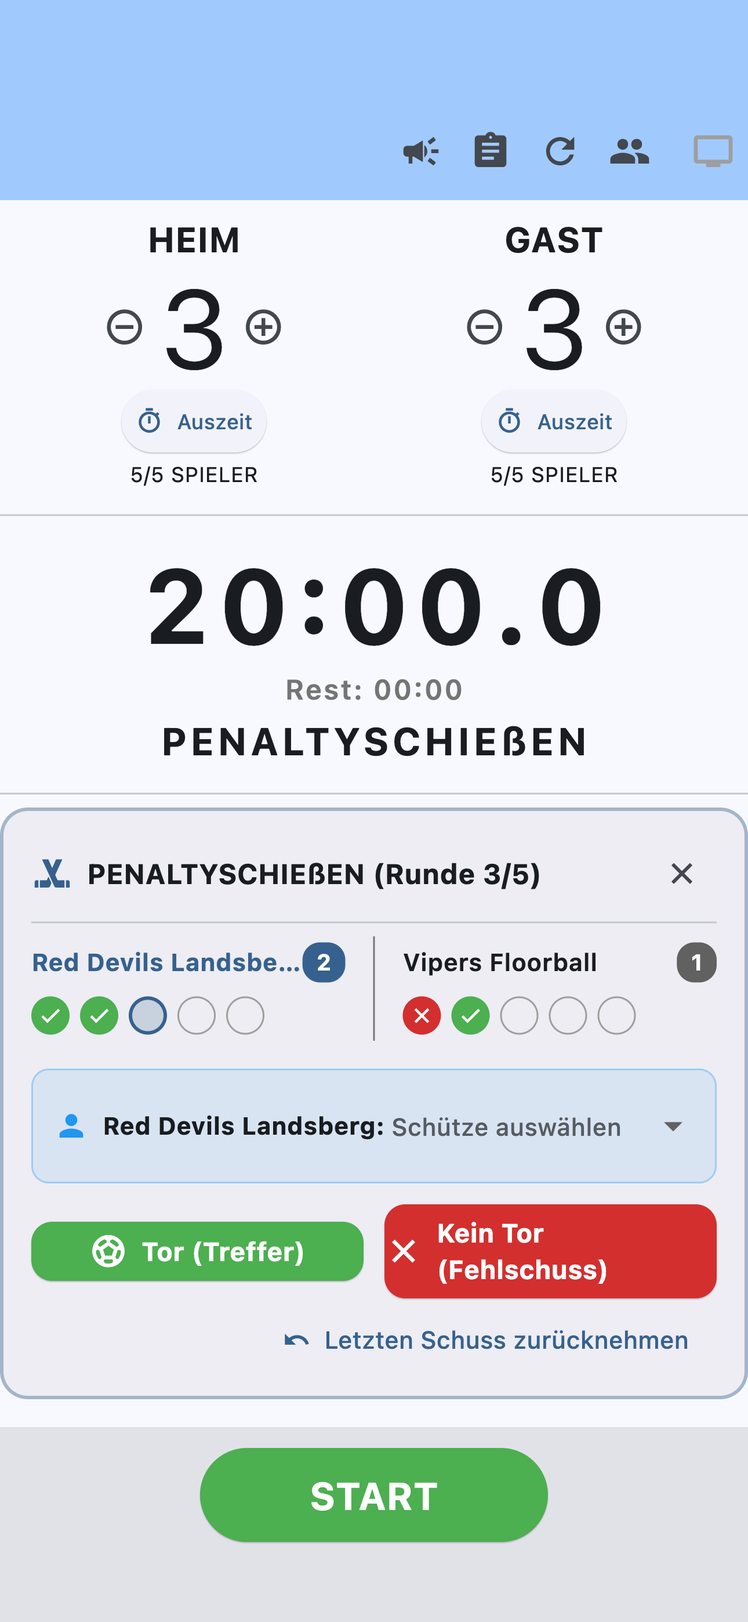
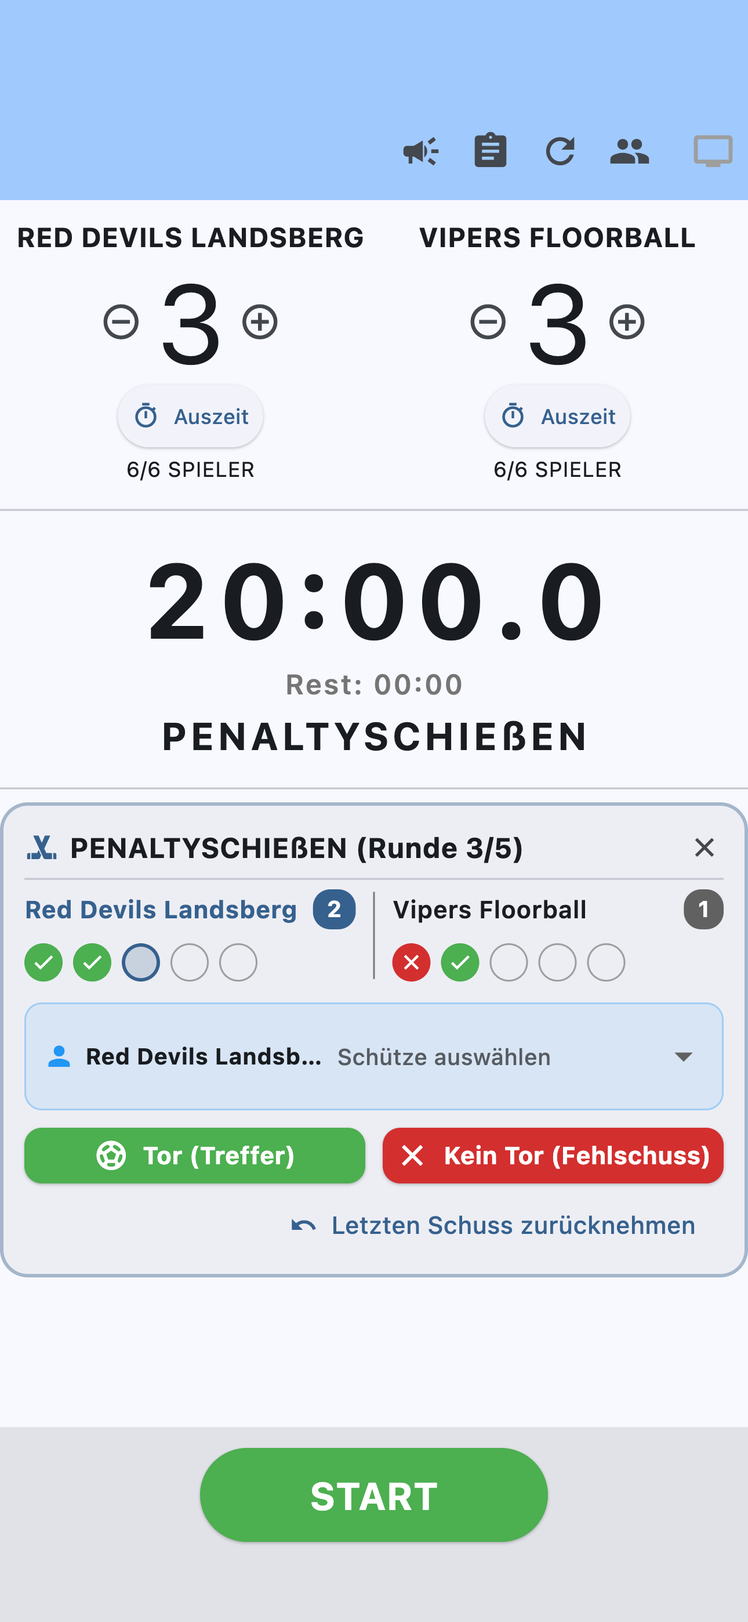
Floorball Clock: Screenshots und Texte auf Version 1.2 aktualisiert

diff --git a/floorball-clock.html b/floorball-clock.html
@@ -9,7 +9,7 @@
   <link rel="canonical" href="https://wodniok-service.de/floorball-clock.html">
   <meta property="og:title" content="Floorball Clock – Digitales Spielsekretariat & Hallenuhr (Regelwerk 2026)">
   <meta property="og:description" content="Professionelles digitales Spielsekretariat für Floorball & Unihockey nach dem Regelwerk 2026. Mit Zeitanpassung, 2' / 2'+2' / 10' Strafen-Logik, Penaltyschießen, Hallen-Scoreboard und offiziellem PDF-Spielbericht.">
-  <meta property="og:image" content="https://wodniok-service.de/images/floorball-clock-screenshot-main.png?v=9">
+  <meta property="og:image" content="https://wodniok-service.de/images/floorball-clock-screenshot-main.png?v=10">
   <meta property="og:url" content="https://wodniok-service.de/floorball-clock.html">
   <meta property="og:type" content="website">
   <title>Floorball Clock – Digitales Spielsekretariat & Hallenuhr (Regelwerk 2026) | Alex Wodniok</title>
@@ -96,7 +96,7 @@
       <!-- App Screenshot Hero (iPhone) -->
       <div class="hero-visual">
         <div class="app-visual-wrapper">
-          <img src="images/floorball-clock-screenshot-main.png?v=9" alt="Floorball Clock iPhone Screenshot Hauptsteuerung mit Zeitanpassung" class="app-screenshot-hero" style="border-color: rgba(99, 102, 241, 0.4); box-shadow: var(--shadow-glow); max-width: 290px;">
+          <img src="images/floorball-clock-screenshot-main.png?v=10" alt="Floorball Clock iPhone Screenshot Hauptsteuerung mit Zeitanpassung" class="app-screenshot-hero" style="border-color: rgba(99, 102, 241, 0.4); box-shadow: var(--shadow-glow); max-width: 290px;">
         </div>
       </div>
     </div>
@@ -220,37 +220,37 @@
         <div class="screenshots-gallery-grid">
           <div class="screenshot-gallery-item">
             <div class="screenshot-img-box">
-              <img src="images/screenshots/ios/01_control_panel.png?v=9" alt="Floorball Clock iPhone Hauptsteuerung & Spielsekretariat">
+              <img src="images/screenshots/ios/01_control_panel.png?v=10" alt="Floorball Clock iPhone Hauptsteuerung & Spielsekretariat">
             </div>
             <div class="screenshot-caption">⏱ Spielsekretariat & Feineinstellung (-5s..+5s)</div>
           </div>
           <div class="screenshot-gallery-item">
             <div class="screenshot-img-box">
-              <img src="images/screenshots/ios/02_penalty_shootout.png?v=9" alt="Floorball Clock iPhone Penaltyschießen Shootout">
+              <img src="images/screenshots/ios/02_penalty_shootout.png?v=10" alt="Floorball Clock iPhone Penaltyschießen Shootout">
             </div>
             <div class="screenshot-caption">🥅 Penaltyschießen (5 Schützen & Sudden Death)</div>
           </div>
           <div class="screenshot-gallery-item">
             <div class="screenshot-img-box">
-              <img src="images/screenshots/ios/03_penalty_dialog.png?v=9" alt="Floorball Clock iPhone Strafen-Dialog & Korrektur">
+              <img src="images/screenshots/ios/03_penalty_dialog.png?v=10" alt="Floorball Clock iPhone Strafen-Dialog & Korrektur">
             </div>
             <div class="screenshot-caption">⚖ 2' / 2'+2' / 10' / MS Strafen & Korrektur</div>
           </div>
           <div class="screenshot-gallery-item">
             <div class="screenshot-img-box">
-              <img src="images/screenshots/ios/04_roster_setup.png?v=9" alt="Floorball Clock iPhone Kader- & Team-Setup">
+              <img src="images/screenshots/ios/04_roster_setup.png?v=10" alt="Floorball Clock iPhone Kader- & Team-Setup">
             </div>
             <div class="screenshot-caption">⚙ Großfeld / Kleinfeld & Team-Vorlagen</div>
           </div>
           <div class="screenshot-gallery-item">
             <div class="screenshot-img-box">
-              <img src="images/screenshots/ios/05_match_report.png?v=9" alt="Floorball Clock iPhone Digitaler Spielbericht">
+              <img src="images/screenshots/ios/05_match_report.png?v=10" alt="Floorball Clock iPhone Digitaler Spielbericht">
             </div>
             <div class="screenshot-caption">📄 Interaktiver Spielbericht & PDF-Vorschau</div>
           </div>
           <div class="screenshot-gallery-item">
             <div class="screenshot-img-box">
-              <img src="images/screenshots/ios/06_scoreboard.png?v=9" alt="Floorball Clock iPhone Hallenanzeige Scoreboard">
+              <img src="images/screenshots/ios/06_scoreboard.png?v=10" alt="Floorball Clock iPhone Hallenanzeige Scoreboard">
             </div>
             <div class="screenshot-caption">🖥 Hallen-Scoreboard (Aufsteigend gem. Regel 201.1)</div>
           </div>
@@ -262,37 +262,37 @@
         <div class="screenshots-gallery-grid">
           <div class="screenshot-gallery-item">
             <div class="screenshot-img-box">
-              <img src="images/screenshots/ipad/01_control_panel.png?v=9" alt="Floorball Clock iPad Hauptsteuerung am Kampfgericht">
+              <img src="images/screenshots/ipad/01_control_panel.png?v=10" alt="Floorball Clock iPad Hauptsteuerung am Kampfgericht">
             </div>
             <div class="screenshot-caption">⏱ Großes iPad-Bedienfeld am Kampfgericht</div>
           </div>
           <div class="screenshot-gallery-item">
             <div class="screenshot-img-box">
-              <img src="images/screenshots/ipad/02_penalty_shootout.png?v=9" alt="Floorball Clock iPad Penaltyschießen">
+              <img src="images/screenshots/ipad/02_penalty_shootout.png?v=10" alt="Floorball Clock iPad Penaltyschießen">
             </div>
             <div class="screenshot-caption">🥅 Penaltyschießen & Shootout-Steuerung</div>
           </div>
           <div class="screenshot-gallery-item">
             <div class="screenshot-img-box">
-              <img src="images/screenshots/ipad/03_penalty_dialog.png?v=9" alt="Floorball Clock iPad Strafen-Eingabe">
+              <img src="images/screenshots/ipad/03_penalty_dialog.png?v=10" alt="Floorball Clock iPad Strafen-Eingabe">
             </div>
             <div class="screenshot-caption">⚖ 2' / 2'+2' / 10' / MS Strafen & Korrektur</div>
           </div>
           <div class="screenshot-gallery-item">
             <div class="screenshot-img-box">
-              <img src="images/screenshots/ipad/04_roster_setup.png?v=9" alt="Floorball Clock iPad Kader & Betreuer">
+              <img src="images/screenshots/ipad/04_roster_setup.png?v=10" alt="Floorball Clock iPad Kader & Betreuer">
             </div>
             <div class="screenshot-caption">⚙ Team-Kader, Betreuer (Staff) & Logos</div>
           </div>
           <div class="screenshot-gallery-item">
             <div class="screenshot-img-box">
-              <img src="images/screenshots/ipad/05_match_report.png?v=9" alt="Floorball Clock iPad Offizieller Spielberichtsbogen">
+              <img src="images/screenshots/ipad/05_match_report.png?v=10" alt="Floorball Clock iPad Offizieller Spielberichtsbogen">
             </div>
             <div class="screenshot-caption">📄 Floorball Deutschland PDF-Spielbericht</div>
           </div>
           <div class="screenshot-gallery-item">
             <div class="screenshot-img-box">
-              <img src="images/screenshots/ipad/06_scoreboard.png?v=9" alt="Floorball Clock iPad Scoreboard Hallenausgabe">
+              <img src="images/screenshots/ipad/06_scoreboard.png?v=10" alt="Floorball Clock iPad Scoreboard Hallenausgabe">
             </div>
             <div class="screenshot-caption">🖥 Scoreboard-Beamer-Ausgabe (Regel 201.1)</div>
           </div>
@@ -304,37 +304,37 @@
         <div class="screenshots-gallery-grid">
           <div class="screenshot-gallery-item">
             <div class="screenshot-img-box">
-              <img src="images/screenshots/mac/01_control_panel.png?v=9" alt="Floorball Clock Mac Desktop Hauptsteuerung">
+              <img src="images/screenshots/mac/01_control_panel.png?v=10" alt="Floorball Clock Mac Desktop Hauptsteuerung">
             </div>
             <div class="screenshot-caption">⏱ Desktop-Steuerung für Schreibertisch-Mac</div>
           </div>
           <div class="screenshot-gallery-item">
             <div class="screenshot-img-box">
-              <img src="images/screenshots/mac/02_penalty_shootout.png?v=9" alt="Floorball Clock Mac Penaltyschießen">
+              <img src="images/screenshots/mac/02_penalty_shootout.png?v=10" alt="Floorball Clock Mac Penaltyschießen">
             </div>
             <div class="screenshot-caption">🥅 Penaltyschießen & Sudden Death</div>
           </div>
           <div class="screenshot-gallery-item">
             <div class="screenshot-img-box">
-              <img src="images/screenshots/mac/03_penalty_dialog.png?v=9" alt="Floorball Clock Mac Strafen">
+              <img src="images/screenshots/mac/03_penalty_dialog.png?v=10" alt="Floorball Clock Mac Strafen">
             </div>
             <div class="screenshot-caption">⚖ 2' / 2'+2' / 10' / MS Strafen-Engine</div>
           </div>
           <div class="screenshot-gallery-item">
             <div class="screenshot-img-box">
-              <img src="images/screenshots/mac/04_roster_setup.png?v=9" alt="Floorball Clock Mac Setup">
+              <img src="images/screenshots/mac/04_roster_setup.png?v=10" alt="Floorball Clock Mac Setup">
             </div>
             <div class="screenshot-caption">⚙ Kaderverwaltung & Vereinsvorlagen</div>
           </div>
           <div class="screenshot-gallery-item">
             <div class="screenshot-img-box">
-              <img src="images/screenshots/mac/05_match_report.png?v=9" alt="Floorball Clock Mac PDF Spielbericht">
+              <img src="images/screenshots/mac/05_match_report.png?v=10" alt="Floorball Clock Mac PDF Spielbericht">
             </div>
             <div class="screenshot-caption">📄 Interaktiver Spielbericht & PDF-Druck</div>
           </div>
           <div class="screenshot-gallery-item">
             <div class="screenshot-img-box">
-              <img src="images/screenshots/mac/06_scoreboard.png?v=9" alt="Floorball Clock Mac Multi-Display Scoreboard">
+              <img src="images/screenshots/mac/06_scoreboard.png?v=10" alt="Floorball Clock Mac Multi-Display Scoreboard">
             </div>
             <div class="screenshot-caption">🖥 Separates 2. Monitor- / Beamer-Fenster</div>
           </div>
@@ -346,37 +346,37 @@
         <div class="screenshots-gallery-grid">
           <div class="screenshot-gallery-item">
             <div class="screenshot-img-box">
-              <img src="images/screenshots/android_phone/01_control_panel.png?v=9" alt="Floorball Clock Android Smartphone Hauptansicht">
+              <img src="images/screenshots/android_phone/01_control_panel.png?v=10" alt="Floorball Clock Android Smartphone Hauptansicht">
             </div>
             <div class="screenshot-caption">⏱ Android Smartphone Steuerung & Zeitanpassung</div>
           </div>
           <div class="screenshot-gallery-item">
             <div class="screenshot-img-box">
-              <img src="images/screenshots/android_phone/02_penalty_shootout.png?v=9" alt="Floorball Clock Android Penaltyschießen">
+              <img src="images/screenshots/android_phone/02_penalty_shootout.png?v=10" alt="Floorball Clock Android Penaltyschießen">
             </div>
             <div class="screenshot-caption">🥅 Penaltyschießen (Shootout-Erfassung)</div>
           </div>
           <div class="screenshot-gallery-item">
             <div class="screenshot-img-box">
-              <img src="images/screenshots/android_phone/03_penalty_dialog.png?v=9" alt="Floorball Clock Android Strafen">
+              <img src="images/screenshots/android_phone/03_penalty_dialog.png?v=10" alt="Floorball Clock Android Strafen">
             </div>
             <div class="screenshot-caption">⚖ 2' / 2'+2' / 10' / MS Strafen & Korrektur</div>
           </div>
           <div class="screenshot-gallery-item">
             <div class="screenshot-img-box">
-              <img src="images/screenshots/android_phone/04_roster_setup.png?v=9" alt="Floorball Clock Android Roster">
+              <img src="images/screenshots/android_phone/04_roster_setup.png?v=10" alt="Floorball Clock Android Roster">
             </div>
             <div class="screenshot-caption">⚙ Spielformate, Kader & Team-Vorlagen</div>
           </div>
           <div class="screenshot-gallery-item">
             <div class="screenshot-img-box">
-              <img src="images/screenshots/android_phone/05_match_report.png?v=9" alt="Floorball Clock Android Spielbericht">
+              <img src="images/screenshots/android_phone/05_match_report.png?v=10" alt="Floorball Clock Android Spielbericht">
             </div>
             <div class="screenshot-caption">📄 Digitaler Spielberichtsbogen (PDF)</div>
           </div>
           <div class="screenshot-gallery-item">
             <div class="screenshot-img-box">
-              <img src="images/screenshots/android_phone/06_scoreboard.png?v=9" alt="Floorball Clock Android Cast Scoreboard">
+              <img src="images/screenshots/android_phone/06_scoreboard.png?v=10" alt="Floorball Clock Android Cast Scoreboard">
             </div>
             <div class="screenshot-caption">🖥 Hallen-Scoreboard (Aufsteigend gem. Regel 201.1)</div>
           </div>
@@ -388,37 +388,37 @@
         <div class="screenshots-gallery-grid">
           <div class="screenshot-gallery-item">
             <div class="screenshot-img-box">
-              <img src="images/screenshots/android_tablet/01_control_panel.png?v=9" alt="Floorball Clock Android Tablet Hauptsteuerung">
+              <img src="images/screenshots/android_tablet/01_control_panel.png?v=10" alt="Floorball Clock Android Tablet Hauptsteuerung">
             </div>
             <div class="screenshot-caption">⏱ Android Tablet Schreibertisch-Ansicht</div>
           </div>
           <div class="screenshot-gallery-item">
             <div class="screenshot-img-box">
-              <img src="images/screenshots/android_tablet/02_penalty_shootout.png?v=9" alt="Floorball Clock Android Tablet Penaltyschießen">
+              <img src="images/screenshots/android_tablet/02_penalty_shootout.png?v=10" alt="Floorball Clock Android Tablet Penaltyschießen">
             </div>
             <div class="screenshot-caption">🥅 Penaltyschießen & Shootout-Engine</div>
           </div>
           <div class="screenshot-gallery-item">
             <div class="screenshot-img-box">
-              <img src="images/screenshots/android_tablet/03_penalty_dialog.png?v=9" alt="Floorball Clock Android Tablet Strafen">
+              <img src="images/screenshots/android_tablet/03_penalty_dialog.png?v=10" alt="Floorball Clock Android Tablet Strafen">
             </div>
             <div class="screenshot-caption">⚖ 2' / 2'+2' / 10' / MS Strafen & Korrektur</div>
           </div>
           <div class="screenshot-gallery-item">
             <div class="screenshot-img-box">
-              <img src="images/screenshots/android_tablet/04_roster_setup.png?v=9" alt="Floorball Clock Android Tablet Setup">
+              <img src="images/screenshots/android_tablet/04_roster_setup.png?v=10" alt="Floorball Clock Android Tablet Setup">
             </div>
             <div class="screenshot-caption">⚙ Kader, Betreuer-Erfassung & Logos</div>
           </div>
           <div class="screenshot-gallery-item">
             <div class="screenshot-img-box">
-              <img src="images/screenshots/android_tablet/05_match_report.png?v=9" alt="Floorball Clock Android Tablet Spielbericht">
+              <img src="images/screenshots/android_tablet/05_match_report.png?v=10" alt="Floorball Clock Android Tablet Spielbericht">
             </div>
             <div class="screenshot-caption">📄 Interaktiver Spielbericht & PDF-Vorschau</div>
           </div>
           <div class="screenshot-gallery-item">
             <div class="screenshot-img-box">
-              <img src="images/screenshots/android_tablet/06_scoreboard.png?v=9" alt="Floorball Clock Android Tablet Scoreboard">
+              <img src="images/screenshots/android_tablet/06_scoreboard.png?v=10" alt="Floorball Clock Android Tablet Scoreboard">
             </div>
             <div class="screenshot-caption">🖥 Hallen-Scoreboard (Aufsteigend gem. Regel 201.1)</div>
           </div>
@@ -441,6 +441,28 @@
         </div>
       </div>
 
+    </div>
+  </section>
+
+  <!-- Neu in Version 1.2 -->
+  <section class="section" style="padding-top: 3rem; padding-bottom: 3rem;">
+    <div class="container" style="max-width: 900px;">
+      <div class="section-header" style="margin-bottom: 1.75rem; text-align: center;">
+        <div class="badge badge-orange">Neu in Version 1.2</div>
+        <h2>Gegen das aktuelle Regelwerk geprüft</h2>
+        <p>Alle Regeln wurden mit den Floorball-Spielregeln 2026 (SPRGK) und der Spielordnung abgeglichen und mit 61 echten Spielberichten aus dem Saisonmanager (1. FBL Herren und Regionalliga U15 Kleinfeld) nachgespielt.</p>
+      </div>
+      <div class="callout callout-info" style="margin: 0; padding: 1.1rem 1.35rem; font-size: 0.95rem; line-height: 1.7;">
+        <ul style="margin: 0; padding-left: 1.2rem;">
+          <li><strong>Technisches Tor</strong> und <strong>Strafschusstreffer</strong> als eigene Tor-Arten – sie beenden keine Strafe.</li>
+          <li>Option <strong>„Tor während angezeigter aufgeschobener Strafe“</strong>: Die angezeigte Strafe wird trotzdem verhängt, eine laufende Strafe endet nicht.</li>
+          <li>Wird ein Tor gelöscht, lebt eine dadurch beendete Strafe mit der korrekten Restzeit wieder auf.</li>
+          <li>Kleinfeld und Mixed: höchstens 1 Bankstrafe gleichzeitig, 3 Penaltyschützen, Pause und Verlängerung je 5 Minuten.</li>
+          <li>Pausen- und Verlängerungsdauer einstellbar; Kaderlimit 20 (Großfeld) bzw. 14 Spieler (Kleinfeld).</li>
+          <li>Spielerzählung inklusive Torhüter (<code>6/6</code> bzw. <code>4/4</code>).</li>
+          <li>PDF-Spielbericht: Umlaute und Sonderzeichen, Verlängerung vor dem Penaltyschießen und Betreuer-Angaben korrigiert.</li>
+        </ul>
+      </div>
     </div>
   </section>
 
@@ -467,7 +489,7 @@
             <svg viewBox="0 0 24 24" fill="none" stroke="currentColor" stroke-width="2"><circle cx="12" cy="12" r="10"></circle><circle cx="12" cy="12" r="4"></circle><line x1="4.93" y1="4.93" x2="9.17" y2="9.17"></line><line x1="14.83" y1="14.83" x2="19.07" y2="19.07"></line><line x1="14.83" y1="9.17" x2="19.07" y2="4.93"></line><line x1="4.93" y1="19.07" x2="9.17" y2="14.83"></line></svg>
           </div>
           <h3>Penaltyschießen & Shootout</h3>
-          <p>Offizieller Turniermodus: Schnellauswahl aus 5 Schützen pro Team, automatische Treffervalidierung, Sudden-Death-Runden bei Gleichstand und direkte Übertragung auf das Hallen-Scoreboard.</p>
+          <p>Offizieller Modus nach SPRGK 2026: 5 Schützen pro Team auf Großfeld, 3 auf Kleinfeld und Mixed, Treffer- und Fehlschuss-Erfassung, automatische vorzeitige Entscheidung, Sudden-Death-Runden bei Gleichstand und direkte Übertragung auf das Hallen-Scoreboard. Der Sieger erhält das zusätzliche Tor im Spielbericht.</p>
         </div>
 
         <div class="feature-card coral">
@@ -475,15 +497,15 @@
             <svg viewBox="0 0 24 24" fill="none" stroke="currentColor" stroke-width="2"><rect x="3" y="3" width="18" height="18" rx="2" ry="2"></rect><line x1="9" y1="9" x2="15" y2="15"></line><line x1="15" y1="9" x2="9" y2="15"></line></svg>
           </div>
           <h3>2' / 2'+2' / 10' Strafen & Live-Edit</h3>
-          <p>Regelkonforme Abarbeitung nach SPRGK 2026: Bankstrafen vor persönlichen Strafen, max. 2 Bankstrafen gleichzeitig (FIFO). Laufende Strafen können per Klick direkt im Spielbetrieb korrigiert werden.</p>
+          <p>Regelkonforme Abarbeitung nach SPRGK 2026: Bankstrafen vor persönlichen Strafen, gleichzeitig laufen höchstens 2 Bankstrafen auf Großfeld und 1 auf Kleinfeld/Mixed. Ein Gegentor in Unterzahl beendet die Strafe mit der kürzesten Restzeit (603.6), Strafschuss- und technische Tore nicht. Wird ein Tor gelöscht, lebt die dadurch beendete Strafe wieder auf. Laufende Strafen lassen sich per Klick im Spielbetrieb korrigieren.</p>
         </div>
 
         <div class="feature-card">
           <div class="feature-icon">
             <svg viewBox="0 0 24 24" fill="none" stroke="currentColor" stroke-width="2"><path d="M4 15s1-1 4-1 5 2 8 2 4-1 4-1V3s-1 1-4 1-5-2-8-2-4 1-4 1z"></path><line x1="4" y1="22" x2="4" y2="15"></line></svg>
           </div>
-          <h3>Großfeld (5v5) & Kleinfeld (3v3)</h3>
-          <p>Flexible Spielformate mit 3 Dritteln, 2 Hälften oder 1 durchgehenden Spielzeit. Automatische Spielerzählung (<code>5/5</code>, <code>4/5</code>, <code>3/5</code> auf Großfeld; <code>3/3</code>, <code>2/3</code> auf Kleinfeld) sowie zuschaltbare Overtime.</p>
+          <h3>Großfeld (5v5), Kleinfeld (3v3) & Mixed</h3>
+          <p>Flexible Spielformate mit 3 Dritteln, 2 Hälften oder 1 durchgehenden Spielzeit. Automatische Spielerzählung inklusive Torhüter (<code>6/6</code>, <code>5/6</code>, <code>4/6</code> auf Großfeld; <code>4/4</code>, <code>3/4</code> auf Kleinfeld). Pausen und Verlängerung (Golden Goal) mit den Regelwerten je Feldart (Großfeld 10/10 min, Kleinfeld 5/5 min), bei Bedarf frei einstellbar – z. B. für Turniere.</p>
         </div>
 
         <div class="feature-card orange">
@@ -499,7 +521,7 @@
             <svg viewBox="0 0 24 24" fill="none" stroke="currentColor" stroke-width="2"><path d="M14 2H6a2 2 0 0 0-2 2v16a2 2 0 0 0 2 2h12a2 2 0 0 0 2-2V8z"></path><polyline points="14 2 14 8 20 8"></polyline><line x1="16" y1="13" x2="8" y2="13"></line><line x1="16" y1="17" x2="8" y2="17"></line><polyline points="10 9 9 9 8 9"></polyline></svg>
           </div>
           <h3>Offizieller PDF-Spielbericht & Vorschau</h3>
-          <p>Lückenlose Erfassung aller Tore, Vorlagen, Strafen, Penaltyschützen, Auszeiten und bis zu 5 Betreuern (Staff) pro Team. Interaktiver PDF-Vorschaubildschirm, digitale Unterschriften und Druck-Export.</p>
+          <p>Lückenlose Erfassung aller Tore (inkl. Eigentor, Strafschuss und technischem Tor), Vorlagen, Strafen, Penaltyschießen, Auszeiten und bis zu 5 Betreuern (Staff) pro Team. Kaderlimit nach Spielordnung (20 Spieler Großfeld, 14 Kleinfeld). Interaktiver PDF-Vorschaubildschirm, digitale Unterschriften und Druck-Export.</p>
         </div>
       </div>
     </div>

diff --git a/handbuch.html b/handbuch.html
@@ -175,8 +175,8 @@
               Floorball Clock steuert Pausen automatisch im Spielzyklus (<em>Game Loop</em>):
             </p>
             <ul style="padding-left: 1.5rem; line-height: 1.8; margin-bottom: 1.5rem;">
-              <li><strong>Reguläre Drittel-/Halbzeitpausen:</strong> Nach Ablauf eines Abschnitts startet automatisch der Pausentimer (Standard: <code>10:00</code> Minuten). Auf dem Scoreboard wird <em>PAUSE / INTERMISSION</em> mit Countdown visualisiert.</li>
-              <li><strong>Pause vor der Overtime:</strong> Endet die reguläre Spielzeit unentschieden (und ist die Overtime aktiviert), folgt eine 2-minütige Vorbereitungspause vor Beginn der Verlängerung.</li>
+              <li><strong>Reguläre Drittel-/Halbzeitpausen:</strong> Nach Ablauf eines Abschnitts startet automatisch der Pausentimer (Regelwert: <code>10:00</code> Minuten auf Großfeld, <code>5:00</code> Minuten auf Kleinfeld/Mixed; im Spiel-Setup unter <em>Pausen-Dauer</em> anpassbar, z. B. für Turniere). Auf dem Scoreboard wird <em>PAUSE / INTERMISSION</em> mit Countdown visualisiert.</li>
+              <li><strong>Pause vor der Overtime:</strong> Endet die reguläre Spielzeit unentschieden (und ist die Overtime aktiviert), folgt eine 2-minütige Vorbereitungspause vor Beginn der Verlängerung. Die Verlängerung (Golden Goal) dauert nach Regelwert 10 Minuten auf Großfeld und 5 Minuten auf Kleinfeld/Mixed und ist unter <em>Dauer der Verlängerung</em> einstellbar.</li>
               <li><strong>Reguläres Spielende:</strong> Gibt es einen regulären Sieger, wird keine Verlängerung gestartet – das Spiel wechselt direkt in den Status <em>SPIEL ENDE / GAME FINISHED</em>.</li>
             </ul>
           </div>
@@ -195,6 +195,7 @@
               <div class="step-details">
                 <h4>Toreingabe mit Spielzeit-Auswahl, Torschütze & Assist</h4>
                 <p>Ein Klick auf das <strong>+ Symbol</strong> öffnet den Tordialog. Hier können Sie die exakte <strong>Spielzeit</strong> des Tores einstellen sowie den <strong>Torschützen</strong> und <strong>Vorlagengeber (Assist)</strong> anhand der Spielernummern aus dem Roster auswählen.</p>
+                <p>Über die Tor-Art wählen Sie <strong>Tor</strong>, <strong>Eigentor (ET)</strong>, <strong>Strafschusstreffer</strong> oder <strong>Technisches Tor (TT)</strong>. Strafschusstreffer und technische Tore beenden keine laufende Strafe. Fällt ein Tor, während eine aufgeschobene Strafe angezeigt wird, aktivieren Sie <em>„Tor während angezeigter aufgeschobener Strafe“</em>: Die angezeigte Strafe wird trotzdem verhängt, laufende Strafen des Gegners erlöschen nicht (Regel 603.6).</p>
               </div>
             </div>
 
@@ -202,13 +203,13 @@
               <div class="step-number" style="font-size: 1.4rem; font-weight: 900;">−</div>
               <div class="step-details">
                 <h4>Tor-Korrektur mit Bestätigungsdialog</h4>
-                <p>Wird ein Tor vom Schiedsrichtergespann aberkannt, reduziert das <strong>- Symbol</strong> den Spielstand mit einer klaren Bestätigung (<em>„Tor löschen“</em>) und entfernt das letzte Tor sauber aus dem Spielbericht. Tore können zudem jederzeit im Spielberichtsbogen editiert oder gelöscht werden.</p>
+                <p>Wird ein Tor vom Schiedsrichtergespann aberkannt, reduziert das <strong>- Symbol</strong> den Spielstand mit einer klaren Bestätigung (<em>„Tor löschen“</em>) und entfernt das letzte Tor sauber aus dem Spielbericht. Tore können zudem jederzeit im Spielberichtsbogen editiert oder gelöscht werden. Hat das gelöschte Tor eine Strafe beendet, lebt diese mit der korrekten Restzeit wieder auf.</p>
               </div>
             </div>
 
             <div class="callout callout-tip">
               <h5>👥 Dynamische Feldspieler-Anzeige</h5>
-              <p>Unterhalb des Spielstands wird in Echtzeit angezeigt, wie viele Feldspieler das jeweilige Team aktuell auf dem Feld hat (z. B. <code>5/5 SPIELER</code> auf Großfeld oder <code>3/3 SPIELER</code> auf Kleinfeld abzüglich aktiver Bankstrafen).</p>
+              <p>Unterhalb des Spielstands wird in Echtzeit angezeigt, wie viele Spieler inklusive Torhüter das jeweilige Team aktuell auf dem Feld hat (z. B. <code>6/6 SPIELER</code> bzw. <code>5/6 SPIELER</code> auf Großfeld oder <code>4/4 SPIELER</code> auf Kleinfeld, abzüglich aktiver Bankstrafen; zeitgleiche Strafen beider Teams nach Regel 603.9 werden nicht abgezogen).</p>
             </div>
           </div>
         </article>
@@ -224,8 +225,8 @@
             <div class="step-block">
               <div class="step-number">🥅</div>
               <div class="step-details">
-                <h4>5 reguläre Schützen pro Team</h4>
-                <p>Jedes Team nominiert 5 Schützen aus dem aktuellen Spielkader. Die App führt das Schiedsgericht abwechselnd durch die Versuche von Heim- und Gastteam.</p>
+                <h4>5 (Großfeld) bzw. 3 (Kleinfeld/Mixed) reguläre Schützen pro Team</h4>
+                <p>Jedes Team nominiert 5 Schützen auf Großfeld bzw. 3 Schützen auf Kleinfeld und Mixed aus dem aktuellen Spielkader. Die App führt das Schiedsgericht abwechselnd durch die Versuche von Heim- und Gastteam.</p>
               </div>
             </div>
 
@@ -300,7 +301,15 @@
               <div class="step-number text-badge">MS</div>
               <div class="step-details">
                 <h4>Matchstrafe (Match Penalty)</h4>
-                <p>Führt zu einer 2'+2' Großen Bankstrafe für das Team sowie zum sofortigen Ausschluss des Spielers (Eintragung im offiziellen Spielbericht).</p>
+                <p>Führt zu einer 2'+2' Großen Bankstrafe für das Team sowie zum sofortigen Ausschluss des Spielers (Eintragung im offiziellen Spielbericht). Die Bankstrafe wird zusätzlich erfasst; eine laufende 10'-Strafe desselben Spielers endet.</p>
+              </div>
+            </div>
+
+            <div class="step-block">
+              <div class="step-number text-badge">TMS</div>
+              <div class="step-details">
+                <h4>Technische Matchstrafe (Regel 612)</h4>
+                <p>Ausschluss ohne Sperre, z. B. bei nicht spielberechtigten Spielern oder Betreuern. Wird wie die Matchstrafe im Spielbericht eingetragen; eine laufende 10'-Strafe derselben Person endet.</p>
               </div>
             </div>
 
@@ -344,8 +353,12 @@
                   <td style="padding: 0.75rem;">Maximal 2 Bankstrafen (Großfeld) bzw. 1 Bankstrafe (Kleinfeld) können pro Team gleichzeitig ticken. Weitere Strafen werden verzögert in die Warteschlange gestellt und rücken automatisch nach.</td>
                 </tr>
                 <tr style="border-bottom: 1px solid var(--border-subtle);">
-                  <td style="padding: 0.75rem;"><strong>Konfliktlösung (Regel 603.2)</strong></td>
-                  <td style="padding: 0.75rem;">Enden zwei Strafen exakt zeitgleich, unterstützt die App das Schiedsgericht durch einen geführten Entscheidungsdialog, welcher Spieler das Feld zuerst betritt.</td>
+                  <td style="padding: 0.75rem;"><strong>Gegentor in Unterzahl (Regel 603.6)</strong></td>
+                  <td style="padding: 0.75rem;">Erzielt das Team in Überzahl ein Tor, bietet die App an, die Bankstrafe des Gegners mit der kürzesten Restzeit zu beenden. Bei einer 2'+2' endet nur der laufende Teil. Strafschusstreffer, technische Tore und Tore während einer angezeigten aufgeschobenen Strafe beenden keine Strafe.</td>
+                </tr>
+                <tr style="border-bottom: 1px solid var(--border-subtle);">
+                  <td style="padding: 0.75rem;"><strong>Zeitgleiche Strafen (Regel 603.9)</strong></td>
+                  <td style="padding: 0.75rem;">Bankstrafen beider Teams aus derselben Unterbrechung werden automatisch paarweise verrechnet: Sie verändern die Spielerzahl nicht und werden nicht durch Tore beendet.</td>
                 </tr>
                 <tr>
                   <td style="padding: 0.75rem;"><strong>✏ Live-Korrektur</strong></td>
@@ -482,10 +495,10 @@
           <h2>13. Häufige Fragen & Praxistipps</h2>
           <div class="manual-card">
             <h4>Wie verhält sich die App beim Penaltyschießen?</h4>
-            <p>Die App führt das Schiedsgericht durch die 5 regulären Schützen pro Team. Fällt keine Entscheidung, startet automatisch das Sudden-Death-Verfahren. Alle Treffer werden synchron auf der Hallenanzeige und im Spielbericht eingetragen.</p>
+            <p>Die App führt das Schiedsgericht durch die regulären Schützen pro Team (5 auf Großfeld, 3 auf Kleinfeld/Mixed). Fällt keine Entscheidung, startet automatisch das Sudden-Death-Verfahren. Alle Treffer werden synchron auf der Hallenanzeige und im Spielbericht eingetragen.</p>
 
-            <h4 style="margin-top: 1.5rem;">Wie verhält sich die App, wenn zwei Strafen exakt zeitgleich enden?</h4>
-            <p>Gemäß IFF Regel 603.2 öffnet die App einen Schiedsgerichts-Dialog (<em>Entscheidung erforderlich: Welcher Spieler kehrt zurück?</em>), um dem Zeitnehmer die manuelle Entscheidung zu überlassen.</p>
+            <h4 style="margin-top: 1.5rem;">Wie verhält sich die App bei zeitgleichen Strafen beider Teams?</h4>
+            <p>Bankstrafen beider Teams aus derselben Spielunterbrechung werden gemäß Regel 603.9 automatisch paarweise verrechnet. Sie reduzieren die Spielerzahl nicht und werden nicht durch Tore beendet – ein Entscheidungsdialog ist nicht nötig.</p>
 
             <h4 style="margin-top: 1.5rem;">Können Strafzeiten während des Spiels korrigiert werden?</h4>
             <p><strong>Ja!</strong> Tippen Sie einfach auf das Stift-Symbol ✏ neben der Strafe auf dem Bedienfeld, um Spielernummer oder Restzeit anzupassen.</p>
